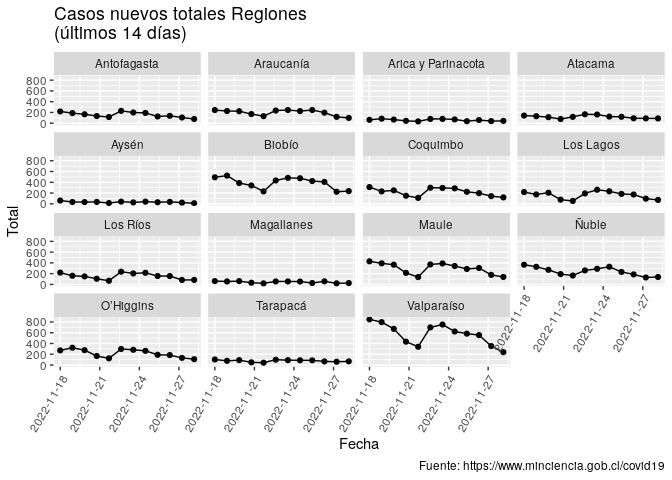
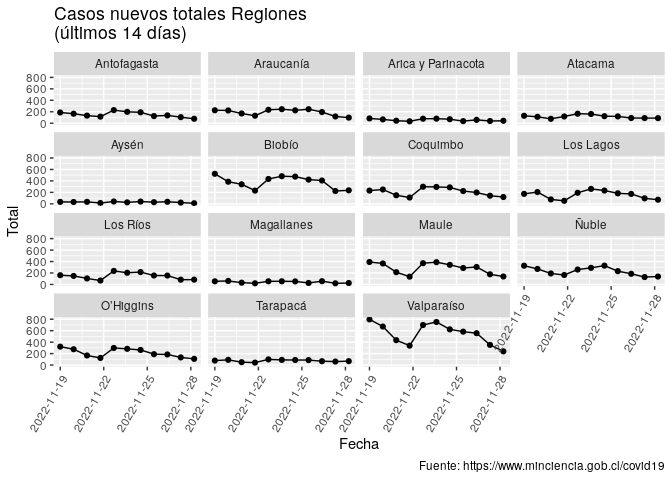
Re-build Rmarkdown files

diff --git a/README.md b/README.md
@@ -3,7 +3,7 @@
 
 Ejemplo de uso de total\_casos de COVID recopilados por el Ministerio de
 Ciencia de Chile <https://www.minciencia.gob.cl/covid19>. Última
-actualización: 2022-12-01
+actualización: 2022-12-02
 
 ## Visualización desde el comienzo de la pandemia
 
